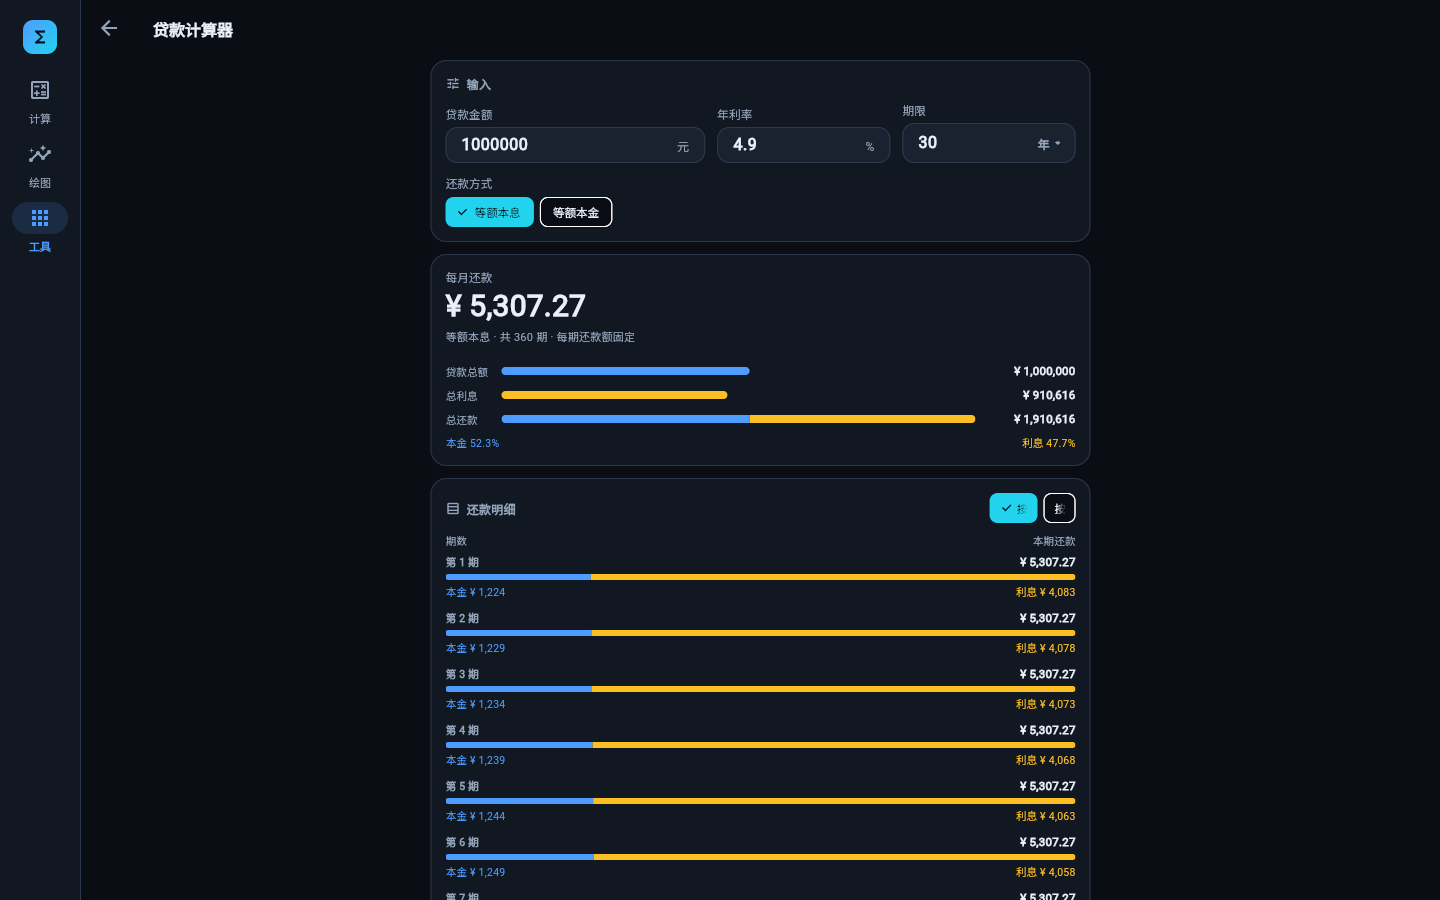
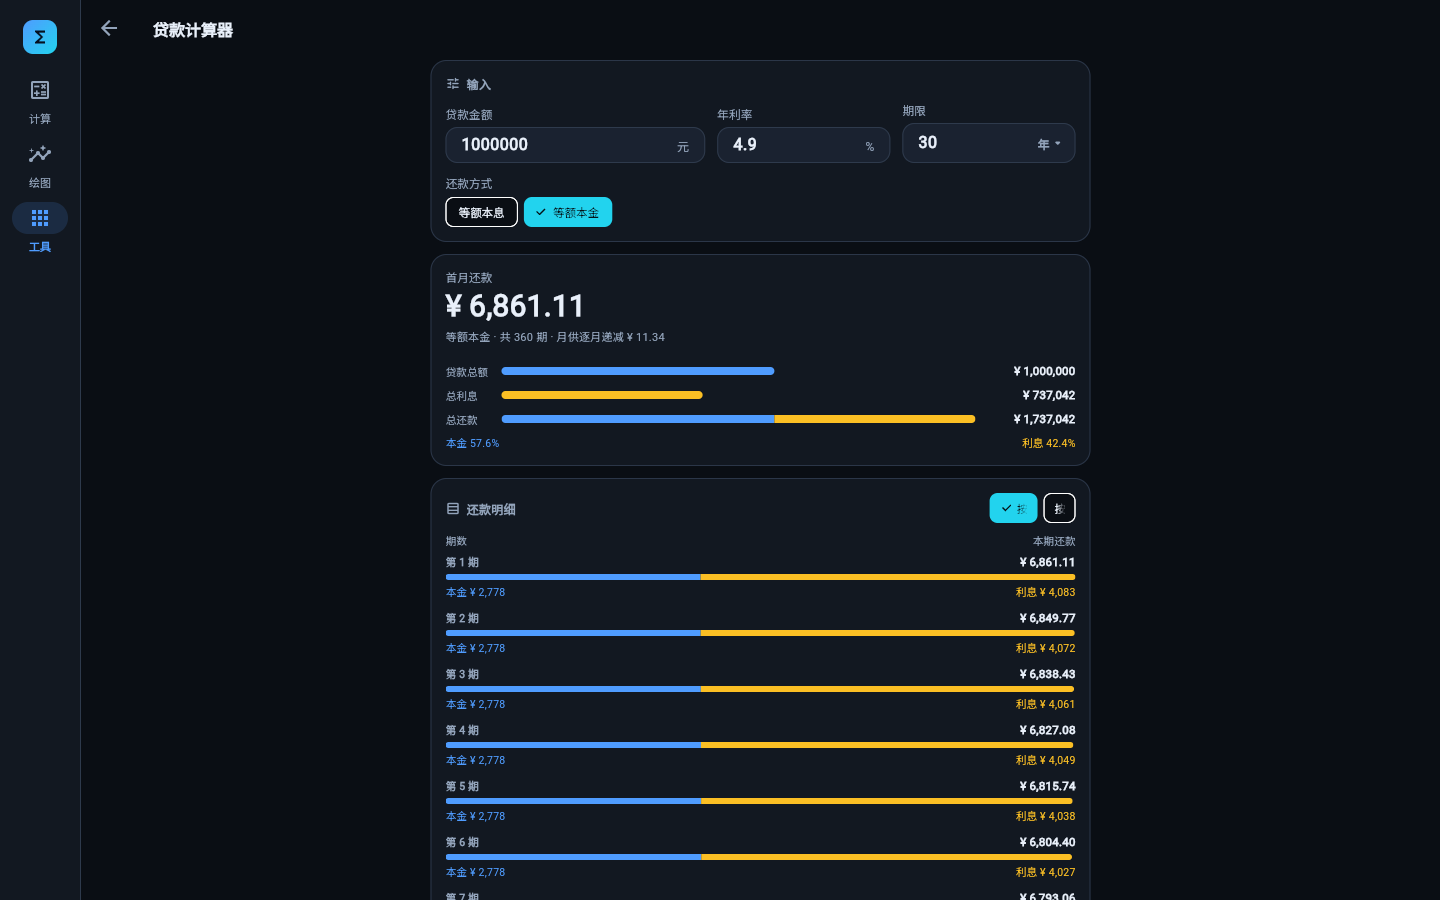
贷款计算器：等额本金明细画成倒梯形
- 新增纯函数 scheduleBarRatios：按当期还款额把明细条长线性映射到 [60%, 100%]，
  等额本金首期 100%、末期 60%，中间按金额插值，左对齐逐期收窄就是倒梯形
- 等额本息每期金额相同（末期只抹浮点误差），相对差小于万分之一时整列满长
- 明细条加 Key('loan-period-bar-N') 便于断言，并在等额本金下补一行口径说明
- 支持深链 ?page=tools&tool=loan&method=equalPrincipal，loan.png 按等额本金重出
- 单测覆盖条长缩放（含按年汇总、自定义下限、空列表）与深链解析，Widget 测试断言逐期变窄

diff --git a/lib/ui/tools/loan/loan_page.dart b/lib/ui/tools/loan/loan_page.dart
@@ -13,6 +13,18 @@ const Color loanPrincipalColor = AppColors.primary;
 /// 利息条的颜色。
 const Color loanInterestColor = AppColors.warning;
 
+/// 解析深链里的还款方式（Web 端 `?method=equalPrincipal`），无效值回落到等额本息。
+///
+/// 主要给截图脚本用：`?page=tools&tool=loan&method=equalPrincipal`
+/// 打开就是等额本金，能直接看到明细的倒梯形。
+LoanMethod loanMethodFromQuery(Map<String, String> query) {
+  final name = query['method'];
+  return LoanMethod.values.firstWhere(
+    (method) => method.name == name,
+    orElse: () => LoanMethod.equalInstallment,
+  );
+}
+
 /// 贷款计算器：等额本息 / 等额本金，逐期拆分本金与利息并用双色条表示。
 class LoanPage extends StatefulWidget {
   const LoanPage({super.key});
@@ -22,7 +34,7 @@ class LoanPage extends StatefulWidget {
 }
 
 class _LoanPageState extends State<LoanPage> {
-  LoanMethod _method = LoanMethod.equalInstallment;
+  LoanMethod _method = loanMethodFromQuery(Uri.base.queryParameters);
   LoanTermUnit _termUnit = LoanTermUnit.years;
 
   final TextEditingController _amount = TextEditingController(text: '1000000');
@@ -366,6 +378,8 @@ class _Schedule extends StatelessWidget {
   @override
   Widget build(BuildContext context) {
     final rows = groupByYear ? result.yearly : result.periods;
+    // 条长按还款额缩放：等额本金首期 100%、末期 60%，整体是个倒梯形
+    final ratios = scheduleBarRatios(rows);
     return Column(
       crossAxisAlignment: CrossAxisAlignment.stretch,
       children: [
@@ -392,20 +406,37 @@ class _Schedule extends StatelessWidget {
             shrinkWrap: true,
             itemCount: rows.length,
             separatorBuilder: (_, _) => const SizedBox(height: 10),
-            itemBuilder: (context, index) =>
-                _PeriodRow(period: rows[index], byYear: groupByYear),
+            itemBuilder: (context, index) => _PeriodRow(
+              period: rows[index],
+              byYear: groupByYear,
+              barWidth: ratios[index],
+            ),
           ),
         ),
+        if (!result.isFixedPayment) ...[
+          const SizedBox(height: 10),
+          const Text(
+            '条长按当期还款额缩放：首期 100%，末期 60%',
+            style: TextStyle(color: AppColors.textSecondary, fontSize: 10),
+          ),
+        ],
       ],
     );
   }
 }
 
 class _PeriodRow extends StatelessWidget {
-  const _PeriodRow({required this.period, required this.byYear});
+  const _PeriodRow({
+    required this.period,
+    required this.byYear,
+    this.barWidth = 1,
+  });
 
   final LoanPeriod period;
   final bool byYear;
+
+  /// 金额条占满宽的比例（1 = 满宽），由 [scheduleBarRatios] 按还款额算出。
+  final double barWidth;
 
   @override
   Widget build(BuildContext context) {
@@ -436,14 +467,25 @@ class _PeriodRow extends StatelessWidget {
           ],
         ),
         const SizedBox(height: 4),
-        SegmentedBar(
-          segments: [
-            RatioSegment(
-              value: period.principalRatio,
-              color: loanPrincipalColor,
+        // 左对齐 + 按比例收窄，逐期变短就拼出倒梯形
+        Align(
+          alignment: Alignment.centerLeft,
+          child: FractionallySizedBox(
+            key: ValueKey('loan-period-bar-${period.index}'),
+            widthFactor: barWidth.clamp(0.0, 1.0),
+            child: SegmentedBar(
+              segments: [
+                RatioSegment(
+                  value: period.principalRatio,
+                  color: loanPrincipalColor,
+                ),
+                RatioSegment(
+                  value: period.interestRatio,
+                  color: loanInterestColor,
+                ),
+              ],
             ),
-            RatioSegment(value: period.interestRatio, color: loanInterestColor),
-          ],
+          ),
         ),
         const SizedBox(height: 4),
         Row(

diff --git a/test/widget_test.dart b/test/widget_test.dart
@@ -6,6 +6,7 @@ import 'package:free_clac/core/math_engine.dart';
 import 'package:free_clac/plot/plot_export.dart';
 import 'package:free_clac/services/plot_file_saver.dart';
 import 'package:free_clac/state/plot_controller.dart';
+import 'package:free_clac/tools/loan.dart';
 import 'package:free_clac/ui/widgets/plot_export_dialog.dart';
 import 'package:free_clac/ui/tools/bmi/bmi_page.dart';
 import 'package:free_clac/ui/tools/compound/compound_page.dart';
@@ -339,6 +340,22 @@ void main() {
     expect(tester.takeException(), isNull);
   });
 
+  test('贷款计算器：深链解析还款方式，无效值回落等额本息', () {
+    expect(
+      loanMethodFromQuery(const {'method': 'equalPrincipal'}),
+      LoanMethod.equalPrincipal,
+    );
+    expect(
+      loanMethodFromQuery(const {'method': 'equalInstallment'}),
+      LoanMethod.equalInstallment,
+    );
+    expect(loanMethodFromQuery(const {}), LoanMethod.equalInstallment);
+    expect(
+      loanMethodFromQuery(const {'method': '乱写'}),
+      LoanMethod.equalInstallment,
+    );
+  });
+
   testWidgets('贷款计算器：月供拆分与双色条', (tester) async {
     await pumpApp(tester, const Size(1440, 900));
 
@@ -355,6 +372,8 @@ void main() {
     expect(find.text('¥ 910,616'), findsOneWidget);
     // 汇总条 + 每期明细条都画出来
     expect(find.byType(SegmentedBar), findsWidgets);
+    // 等额本息每期还款额相同，不做倒梯形缩放
+    expect(find.text('条长按当期还款额缩放：首期 100%，末期 60%'), findsNothing);
 
     // 三行金额条按金额区分长度：总还款 > 贷款总额 > 总利息
     expect(find.byType(AmountBar), findsNWidgets(3));
@@ -383,6 +402,13 @@ void main() {
     await tester.pumpAndSettle();
     expect(find.text('¥ 6,861.11'), findsWidgets);
     expect(find.textContaining('月供逐月递减'), findsOneWidget);
+    expect(find.text('条长按当期还款额缩放：首期 100%，末期 60%'), findsOneWidget);
+
+    // 明细条长逐期收窄，整体拼成倒梯形
+    double periodBar(int index) =>
+        tester.getSize(find.byKey(ValueKey('loan-period-bar-$index'))).width;
+    expect(periodBar(1), greaterThan(periodBar(2)));
+    expect(periodBar(2), greaterThan(periodBar(3)));
 
     // 按年汇总：30 行
     await tester.tap(find.text('按年'));

diff --git a/test/tools_test.dart b/test/tools_test.dart
@@ -459,6 +459,48 @@ void main() {
       expect(result.periods.last.principal, closeTo(2777.78, 0.01));
     });
 
+    test('明细条长：等额本金首期 100%、末期 60%，中间按金额缩放', () {
+      final result = calculate(method: LoanMethod.equalPrincipal);
+      final rows = result.periods;
+      final ratios = scheduleBarRatios(rows);
+
+      expect(ratios.length, rows.length);
+      expect(ratios.first, closeTo(1, 1e-9));
+      expect(ratios.last, closeTo(0.6, 1e-9));
+      // 逐期变短 → 倒梯形
+      for (var i = 1; i < ratios.length; i++) {
+        expect(ratios[i], lessThan(ratios[i - 1]));
+      }
+
+      // 中间各期按还款额线性插值，而不是等步长
+      const mid = 180;
+      final expected =
+          0.6 +
+          0.4 *
+              (rows[mid].payment - rows.last.payment) /
+              (rows.first.payment - rows.last.payment);
+      expect(ratios[mid], closeTo(expected, 1e-9));
+      expect(ratios[mid], inExclusiveRange(0.6, 1));
+
+      // 按年汇总同样是倒梯形
+      final yearly = scheduleBarRatios(result.yearly);
+      expect(yearly.first, closeTo(1, 1e-9));
+      expect(yearly.last, closeTo(0.6, 1e-9));
+    });
+
+    test('明细条长：等额本息每期满长，空列表安全', () {
+      final result = calculate();
+      expect(scheduleBarRatios(result.periods), everyElement(closeTo(1, 1e-9)));
+      expect(scheduleBarRatios(<LoanPeriod>[]), isEmpty);
+      // 自定义下限
+      final tapered = scheduleBarRatios(
+        calculate(method: LoanMethod.equalPrincipal).periods,
+        floor: 0.4,
+      );
+      expect(tapered.first, closeTo(1, 1e-9));
+      expect(tapered.last, closeTo(0.4, 1e-9));
+    });
+
     test('期数随期限变化', () {
       expect(calculate(months: 120).firstPayment, closeTo(10557.74, 0.01));
       expect(calculate(months: 240).firstPayment, closeTo(6544.44, 0.01));

diff --git a/lib/tools/loan.dart b/lib/tools/loan.dart
@@ -140,6 +140,32 @@ class LoanResult {
   }
 }
 
+/// 还款明细里每条金额条的相对长度（0~1），用于把明细画成倒梯形。
+///
+/// 规则：还款额最大的那一行（等额本金的首期）占满 100%，最小的一行
+/// （末期）为 [floor]（默认 60%），中间的额度按还款金额线性插值，
+/// 所以逐期递减的等额本金会自然拼成一个倒梯形；还款额恒定时（等额本息）
+/// 每行都是满长。
+List<double> scheduleBarRatios(List<LoanPeriod> rows, {double floor = 0.6}) {
+  if (rows.isEmpty) return const <double>[];
+  final safeFloor = floor.clamp(0.0, 1.0);
+  final first = rows.first.payment;
+  final last = rows.last.payment;
+  final span = first - last;
+  // 等额本息每期相等，只有末期抹平浮点误差带来的几分钱差异，
+  // 相对差小于万分之一就当「没有落差」，整列满长。
+  if (!span.isFinite || span.abs() <= first.abs() * 1e-4) {
+    return List<double>.filled(rows.length, 1);
+  }
+  return <double>[
+    for (final row in rows)
+      (safeFloor + (1 - safeFloor) * (row.payment - last) / span).clamp(
+        safeFloor,
+        1.0,
+      ),
+  ];
+}
+
 /// 校验贷款参数是否可用。
 bool _validLoanInput({
   required double amount,
